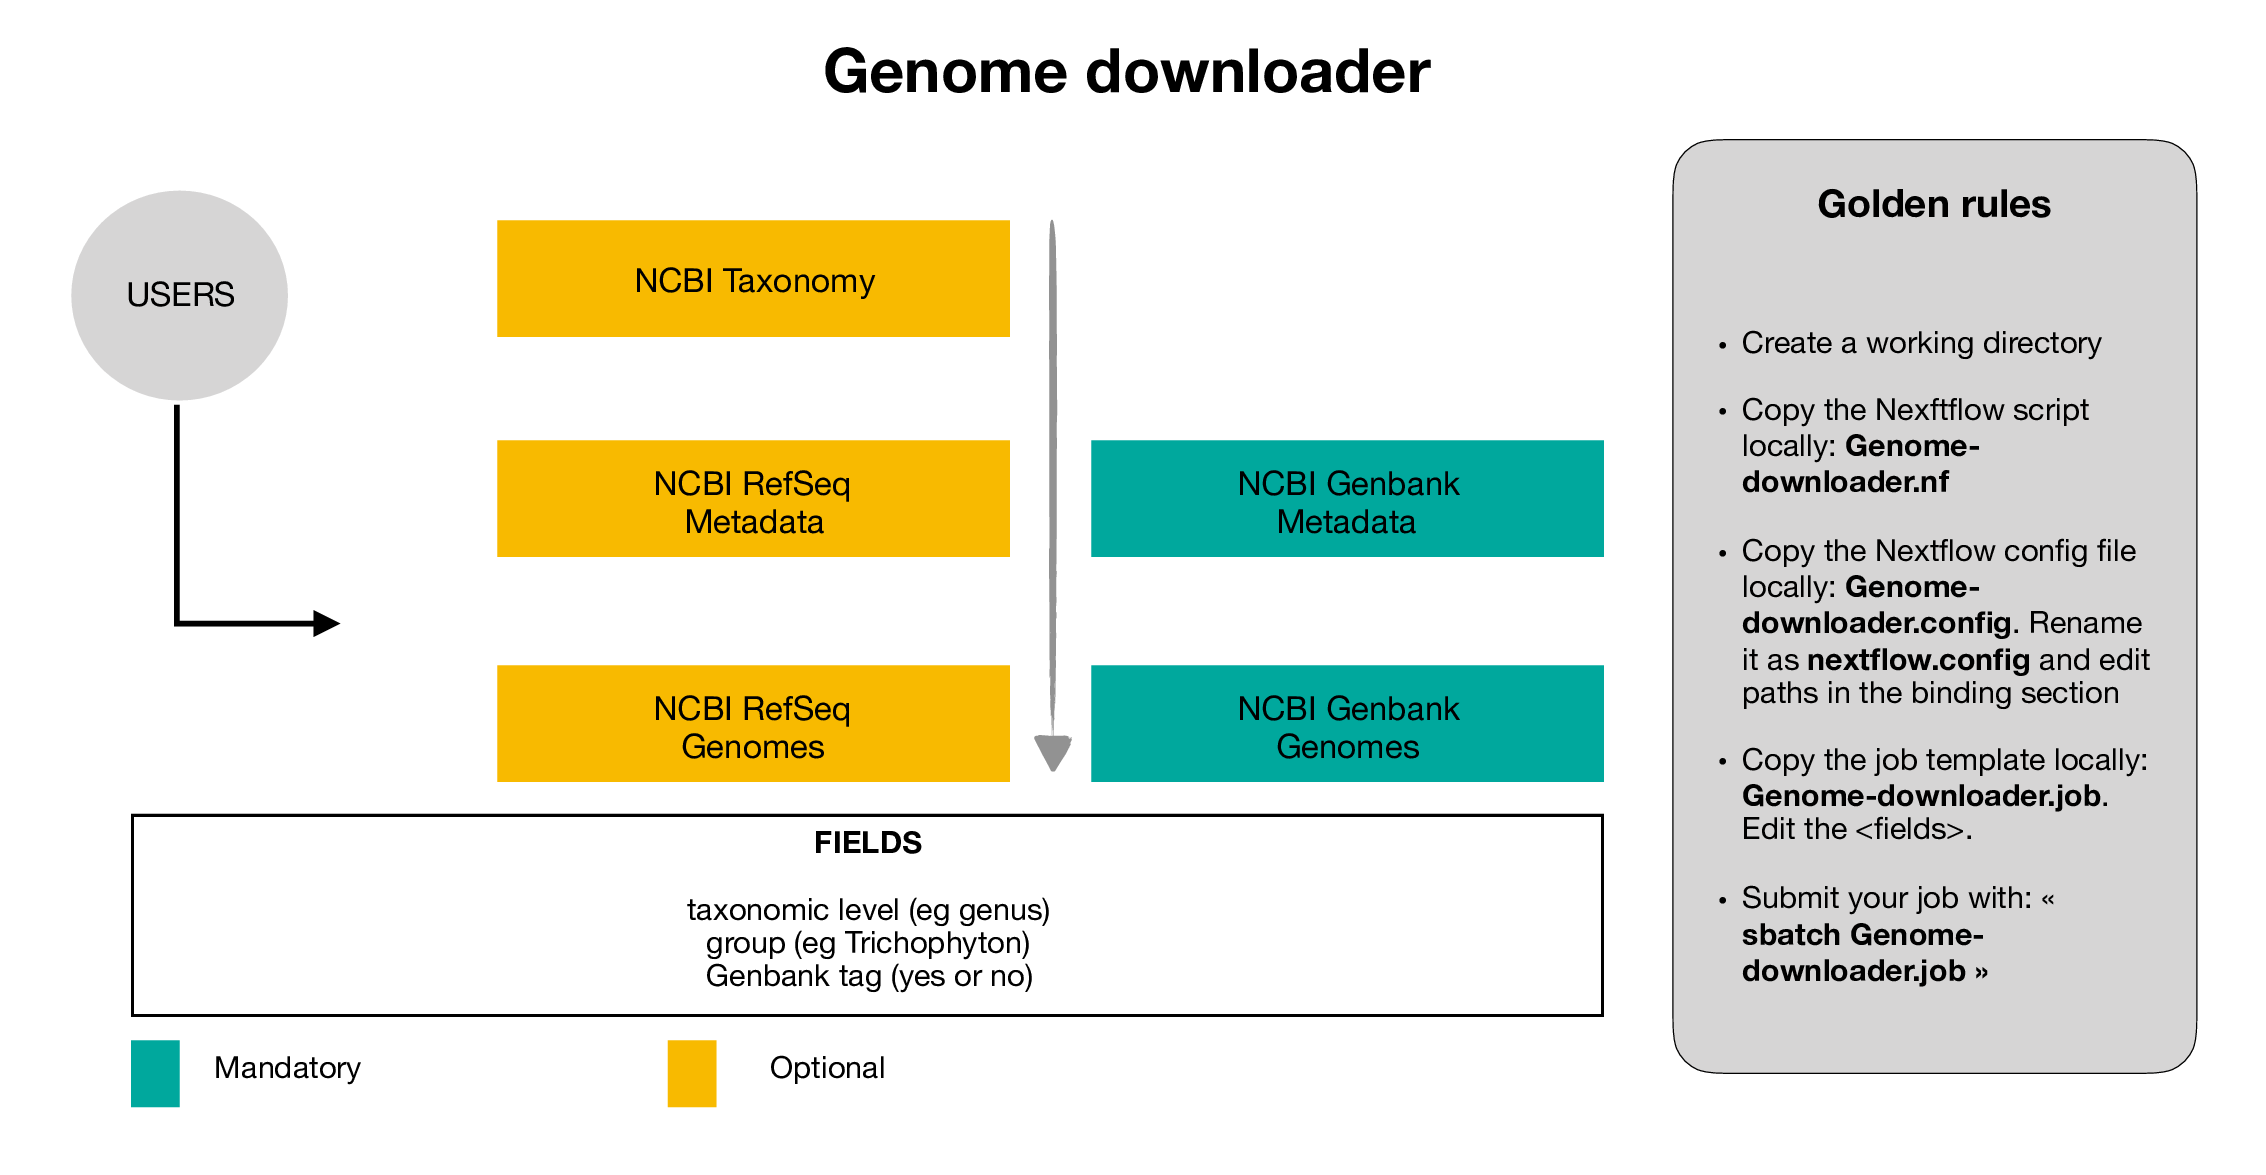
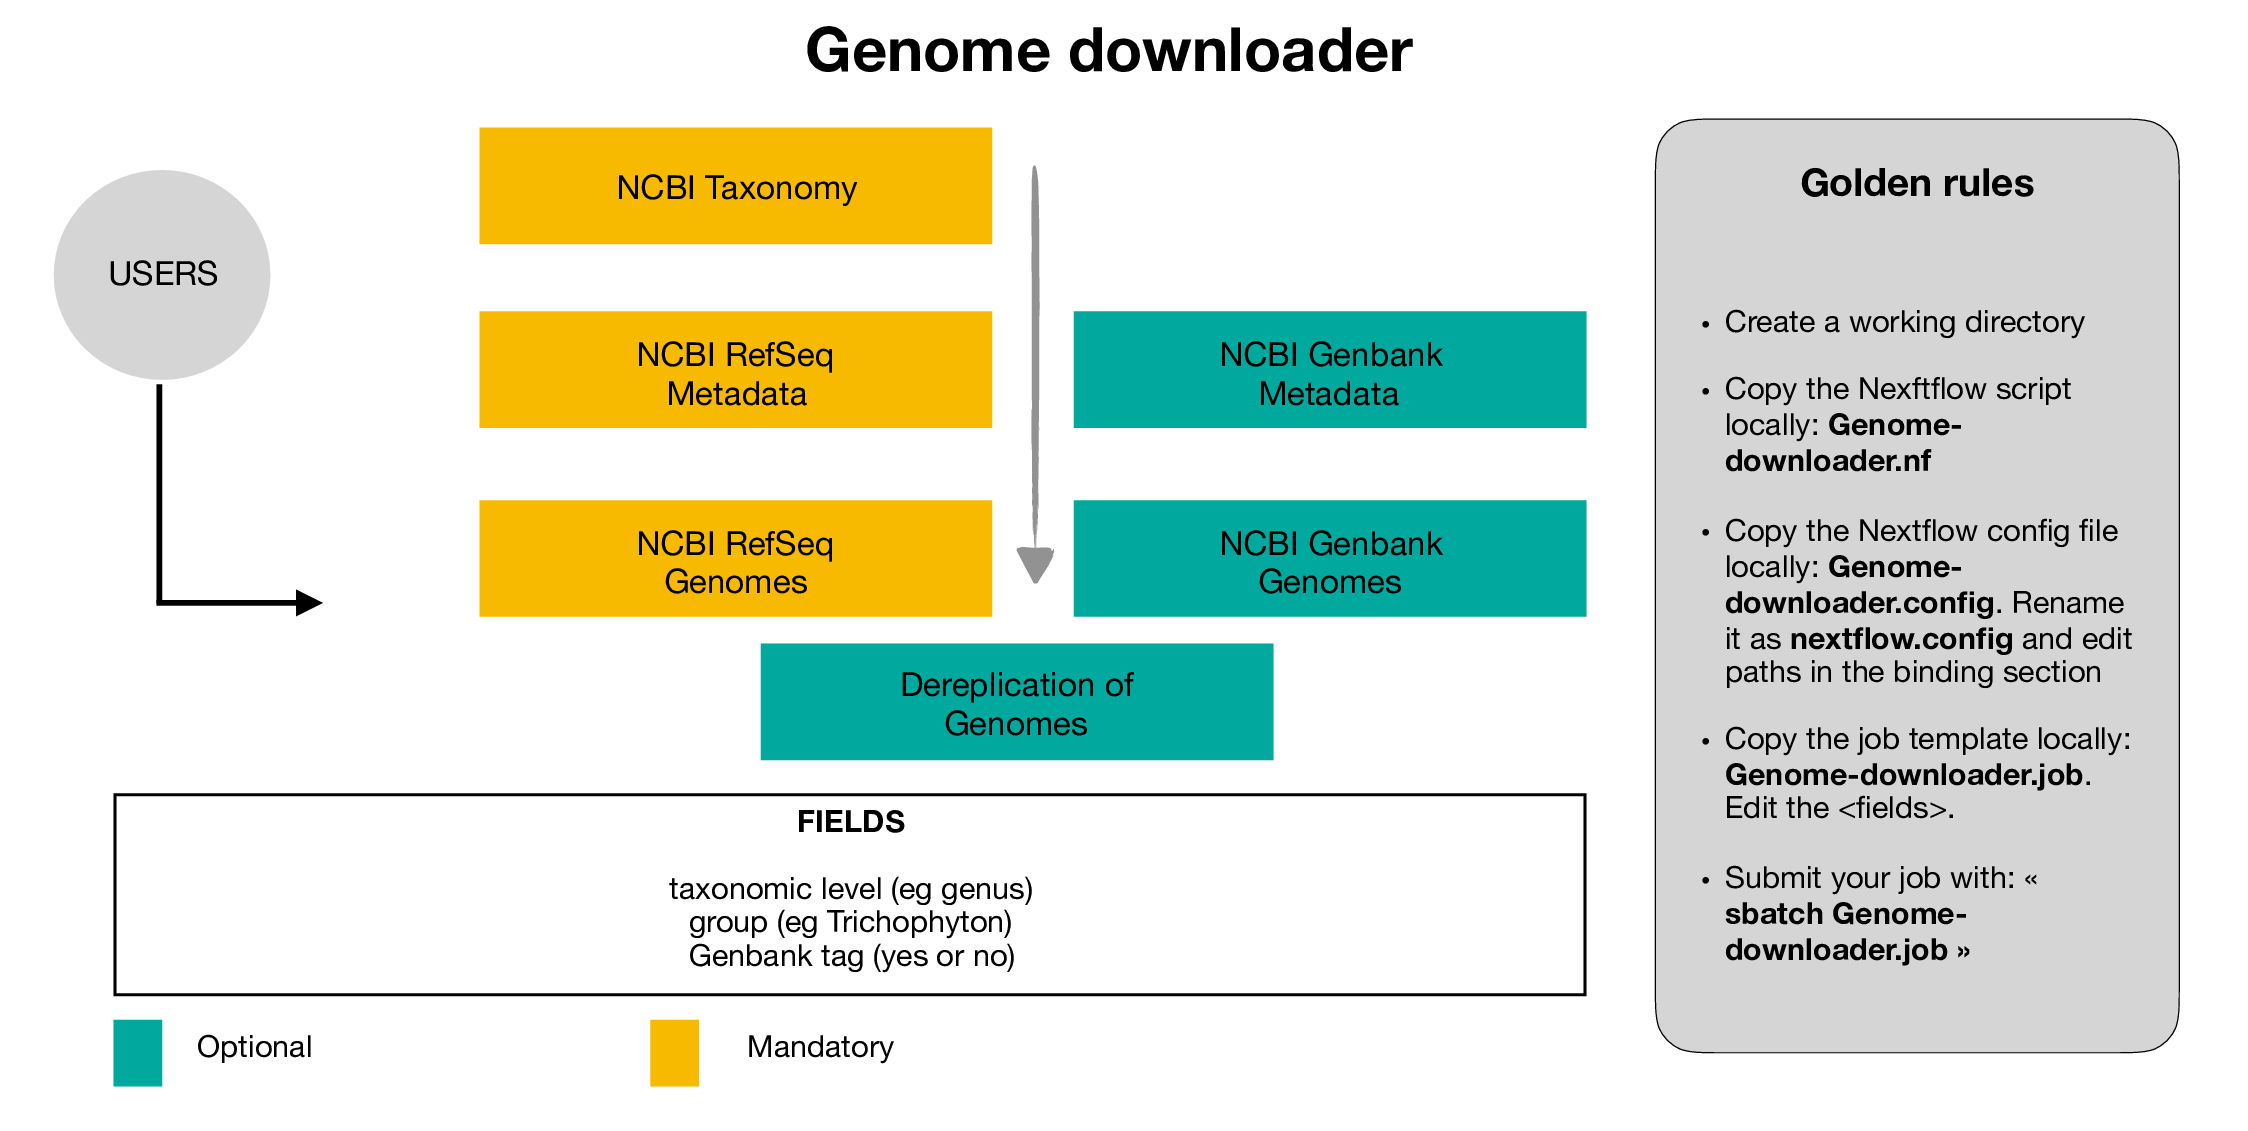
Add Genome downloader version 2

diff --git a/Companion/Genome-downloader_companion.py b/Companion/Genome-downloader_companion.py
@@ -90,15 +90,18 @@ def main(main_file, mode, taxa, refgroup):
                 else: 
                     split_list = levels.split(";")
                     phylum = split_list[0]
-                    phylum = phylum.replace(" ", "")
+                    phylum = phylum.replace(" ", "", 1)
                     clas = split_list[1]
-                    clas = clas.replace(" ", "")
+                    clas = clas.replace(" ", "", 1)
                     order = split_list[2]
-                    order = order.replace(" ", "")
+                    order = order.replace(" ", "", 1)
                     family = split_list[3]
-                    family = family.replace(" ", "")
+                    family = family.replace(" ", "", 1)
                     genus = split_list[4]
-                    genus = genus.replace(" ", "")
+                    genus = genus.replace(" ", "", 1)
+                    species = split_list[5]
+                    species = species.replace(" ", "", 1)
+
 
                     if (taxa == 'phylum'):
                         group = phylum
@@ -118,6 +121,11 @@ def main(main_file, mode, taxa, refgroup):
                             GCFlist_of[GC] = 1
                     elif (taxa == 'genus'):
                         group = genus
+                        if (refgroup in group):
+                            GCFlist_of[GC] = 1
+                    elif (taxa == 'species'):
+                        group = species
+                        group = group.replace(" ", "_")
                         if (refgroup in group):
                             GCFlist_of[GC] = 1
                     
@@ -156,15 +164,17 @@ def main(main_file, mode, taxa, refgroup):
                 else: 
                     split_list = levels.split(";")
                     phylum = split_list[0]
-                    phylum = phylum.replace(" ", "")
+                    phylum = phylum.replace(" ", "", 1)
                     clas = split_list[1]
-                    clas = clas.replace(" ", "")
+                    clas = clas.replace(" ", "", 1)
                     order = split_list[2]
-                    order = order.replace(" ", "")
+                    order = order.replace(" ", "", 1)
                     family = split_list[3]
-                    family = family.replace(" ", "")
+                    family = family.replace(" ", "", 1)
                     genus = split_list[4]
-                    genus = genus.replace(" ", "")
+                    genus = genus.replace(" ", "", 1)
+                    species = split_list[5]
+                    species = species.replace(" ", "", 1)
 
                     if (taxa == 'phylum'):
                         group = phylum
@@ -186,6 +196,12 @@ def main(main_file, mode, taxa, refgroup):
                         group = genus
                         if ((refgroup in group) and (ID not in GCFlist_of)):
                             GCAlist_of[GC] = 1
+                    elif (taxa == 'species'):
+                        group = species
+                        group = group.replace(" ", "_")
+                        if ((refgroup in group) and (ID not in GCFlist_of)):
+                            GCAlist_of[GC] = 1
+                    
     
             #print GC list
             fetch_out = open("GCA.refgroup.uniq", "w")

diff --git a/README.md b/README.md
@@ -9,6 +9,7 @@ Please visit
 https://bccm.belspo.be/content/bccm-collections-genomic-era  
 
 # NEWS
+20/03 !!!  Genome-downloader version 2.0.0 is now available: Dereplication of genomes and species level are available !!!  
 10/02 !!!  OGs enrichment has been added to GENERA tools !!!  
 03/02 !!!  OGs DNA reverse translate has been added to GENERA tools !!!  
 28/01 !!!  Multi locus Maximum Likelihood Phylogeny has been added to GENERA tools !!!
